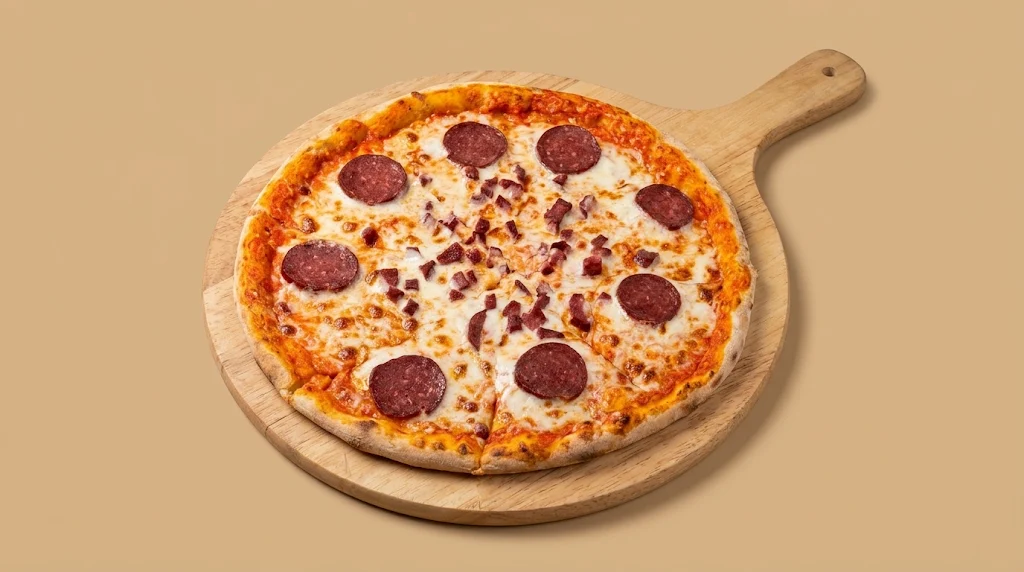
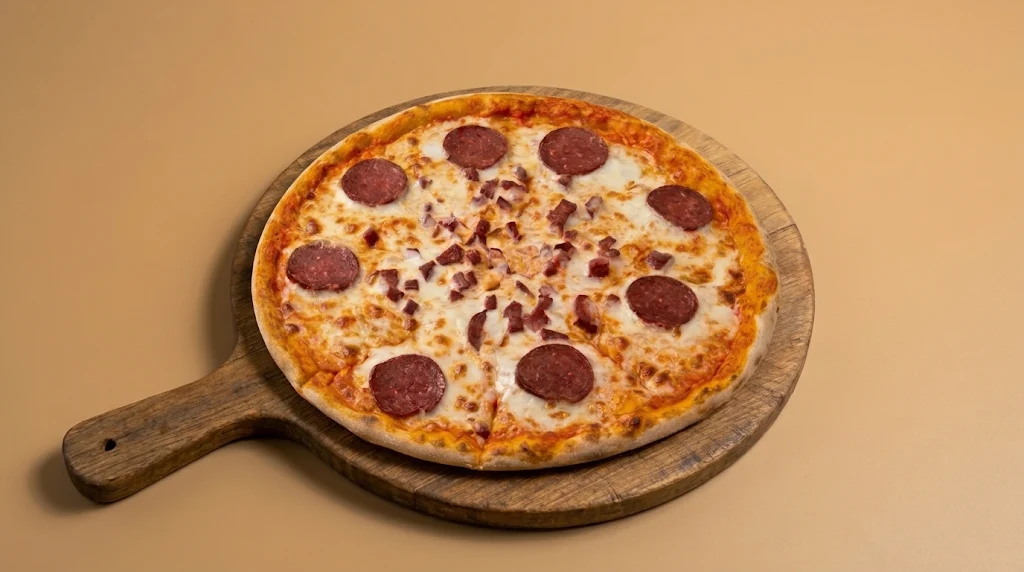
Update dish photos and nugget sauce selection

diff --git a/assets/cart.js b/assets/cart.js
@@ -3,7 +3,24 @@
  const core=window.MenuCartCore;
  const catalog=JSON.parse(document.getElementById('menu-catalog').textContent);
  const config=window.MenuOrderingConfig||{};
- const storageKey='sweet-sushi-cart-v1';
+ const storageKey=config.cartStorageKey||'sweet-sushi-cart-v1';
+ const products=new Map(catalog.map(product=>[product.id,product]));
+ const sauceInput=document.querySelector('[data-nugget-sauce]');
+ const nuggetId=catalog.find(product=>product.name==='Наггетсы')?.id;
+ const sauceNames=new Set(['Сырный','Томатный','Мира соус','Чесночный']);
+ try{const saved=localStorage.getItem(storageKey+'-nugget-sauce');if(sauceInput&&sauceNames.has(saved))sauceInput.value=saved;}catch{}
+ let sauceEnabled=Boolean(sauceInput?.value);
+ try{if(localStorage.getItem(storageKey+'-sauce-enabled')==='yes')sauceEnabled=true;}catch{}
+ const sauceChoice=document.querySelector('#nugget-sauce-choice');
+ const sauceButtons=[...document.querySelectorAll('[data-sauce-enabled]')];
+ function updateSauceChoice(){
+  if(sauceChoice)sauceChoice.hidden=!sauceEnabled;
+  if(sauceInput)sauceInput.disabled=!sauceEnabled;
+  sauceButtons.forEach(button=>{const yes=button.dataset.sauceEnabled==='yes';button.setAttribute('aria-pressed',String(yes===sauceEnabled));if(yes)button.setAttribute('aria-expanded',String(sauceEnabled));});
+ }
+ const selectedSauce=()=>!sauceEnabled?'':sauceNames.has(sauceInput?.value)?sauceInput.value:'Выбрать при подтверждении заказа';
+ updateSauceChoice();
+ const addButtons=new Map([...document.querySelectorAll('[data-add-product]')].map(button=>[button.dataset.addProduct,button]));
  const dialog=document.getElementById('cart-dialog');
  const list=dialog.querySelector('.cart-lines');
  const empty=dialog.querySelector('.cart-empty');
@@ -12,6 +29,9 @@
  const copy=dialog.querySelector('[data-copy-order]');
  const preview=dialog.querySelector('.cart-message');
  const commentInput=dialog.querySelector('.cart-comment');
+ const placeSelect=dialog.querySelector('#delivery-place');
+ const deliveryPlace=dialog.querySelector('.cart-delivery-place');
+ const deliveryTotal=dialog.querySelector('[data-delivery-total]');
  const configNote=dialog.querySelector('[data-config-note]');
  const status=document.querySelector('.cart-status');
  let cart={},statusTimer,lastOpener,payment='cash',fulfillment='';
@@ -33,6 +53,7 @@
    const info=node('div','cart-line-info');info.append(node('h3','',p.name));
    if(p.description)info.append(node('p','',p.description));
    info.append(node('p','cart-unit-price',core.money(p.price)+' за шт.'));
+   if(p.id===nuggetId&&selectedSauce())info.append(node('p','cart-unit-price','Соус: '+selectedSauce()));
    const controls=node('div','cart-line-controls');
    const minus=action('Уменьшить: '+p.name,'−',()=>change(p.id,p.quantity-1));minus.dataset.cartFocus=p.id+'-minus';
    const qty=node('span','cart-quantity',String(p.quantity));qty.setAttribute('aria-label','Количество');
@@ -50,7 +71,14 @@
   document.querySelectorAll('[data-cart-total]').forEach(el=>el.textContent=total);
   dock.hidden=count===0;empty.hidden=count>0;copy.disabled=count===0;
   renderLines();
-  const text=core.message(cart,catalog,payment,commentInput.value,fulfillment),url=core.whatsappUrl(config.whatsappNumber,text);
+  const place=placeSelect?.value||'',subtotal=core.total(cart,catalog),fee=core.deliveryFee(subtotal,fulfillment,place);
+  if(deliveryPlace)deliveryPlace.hidden=fulfillment!=='delivery';
+  const withDelivery=fulfillment==='delivery'&&count>0;
+  if(deliveryTotal){deliveryTotal.hidden=!withDelivery;deliveryTotal.textContent=withDelivery?(fee?'Доставка: '+core.money(fee):'Доставка бесплатно'):'';deliveryTotal.classList.toggle('is-free',withDelivery&&fee===0);}
+  const totalLabel=dialog.querySelector('[data-checkout-label]');
+  if(totalLabel){totalLabel.textContent=withDelivery?'Итого с доставкой':'Итого по меню';dialog.querySelector('.cart-summary [data-cart-total]').textContent=core.money(subtotal+fee);}
+  const sauceNote=selectedSauce()&&cart[nuggetId]?'\n\nСоус к наггетсам: '+selectedSauce()+'.':'';
+  const text=core.message(cart,catalog,payment,commentInput.value,fulfillment,place)+sauceNote,url=core.whatsappUrl(config.whatsappNumber,text);
   preview.value=text;
   dialog.querySelectorAll('[name="order-payment"]').forEach(input=>{input.checked=input.value===payment;});
   dialog.querySelectorAll('[name="order-fulfillment"]').forEach(input=>{input.checked=input.value===fulfillment;});
@@ -65,33 +93,37 @@
   document.querySelectorAll('[data-add-product]').forEach(button=>{
    const qty=cart[button.dataset.addProduct]||0;
    button.disabled=qty>=core.MAX_QUANTITY;
-   button.querySelector('span').textContent=qty?String(qty):'+';
+   const badge=button.querySelector('span');
+   if(badge)badge.textContent=qty?String(qty):'+';
   });
   document.querySelectorAll('[data-remove-product]').forEach(button=>{
    const selected=Boolean(cart[button.dataset.removeProduct]),wrap=button.closest('.menu-remove-wrap');
-   button.disabled=!selected;wrap.inert=!selected;wrap.setAttribute('aria-hidden',String(!selected));
-   button.closest('.item-order').classList.toggle('has-product',selected);
+   button.disabled=!selected;
+   if(wrap){wrap.inert=!selected;wrap.setAttribute('aria-hidden',String(!selected));}
+   button.closest('.item-order')?.classList.toggle('has-product',selected);
   });
   document.querySelectorAll('[data-price-product]').forEach(button=>{button.disabled=(cart[button.dataset.priceProduct]||0)>=core.MAX_QUANTITY;});
  }
  document.querySelectorAll('[data-price-product]').forEach(button=>button.addEventListener('click',()=>{
-  document.querySelector('[data-add-product="'+button.dataset.priceProduct+'"]').click();
+  addButtons.get(button.dataset.priceProduct)?.click();
  }));
  document.querySelectorAll('[data-remove-product]').forEach(button=>button.addEventListener('click',()=>{
-  const id=button.dataset.removeProduct,p=catalog.find(p=>p.id===id);
+  const id=button.dataset.removeProduct,p=products.get(id);
+  if(!p)return;
   const quantity=Math.max(0,(cart[id]||0)-1);
   change(id,quantity);
-  if(!quantity)document.querySelector('[data-add-product="'+id+'"]').focus({preventScroll:true});
+  if(!quantity)addButtons.get(id)?.focus({preventScroll:true});
   announce(quantity?p.name+' — в корзине '+quantity+' шт.':p.name+' — убрали из корзины.');
  }));
  document.querySelectorAll('[data-add-product]').forEach(button=>button.addEventListener('click',()=>{
   const id=button.dataset.addProduct;
-  const p=catalog.find(p=>p.id===id);
+  const p=products.get(id);
+  if(!p)return;
   cart=core.setQuantity(cart,id,(cart[id]||0)+1,catalog);save();render();
   if(!matchMedia('(prefers-reduced-motion: reduce)').matches&&button.animate){
    // Keep background/opacity under CSS control, including hover transitions.
    button.animate([{transform:'scale(1)'},{transform:'scale(.96)'},{transform:'scale(1)'}],{duration:240,easing:'ease-out'});
-   button.querySelector('span').animate([{transform:'scale(1)'},{transform:'scale(1.35)'},{transform:'scale(1)'}],{duration:320,easing:'ease-out'});
+   button.querySelector('span')?.animate([{transform:'scale(1)'},{transform:'scale(1.35)'},{transform:'scale(1)'}],{duration:320,easing:'ease-out'});
   }
   announce(p.name+' — в корзине '+cart[id]+' шт.');
  }));
@@ -100,9 +132,17 @@
  dialog.addEventListener('click',event=>{if(event.target===dialog){const r=dialog.getBoundingClientRect();if(event.clientX<r.left||event.clientX>r.right||event.clientY<r.top||event.clientY>r.bottom)dialog.close();}});
  dialog.addEventListener('close',()=>{document.body.classList.remove('cart-is-open');const opener=lastOpener&&!lastOpener.hidden?lastOpener:document.querySelector('.cart-header-button');opener?.focus({preventScroll:true});});
  checkout.addEventListener('click',event=>{if(checkout.getAttribute('aria-disabled')==='true')event.preventDefault();});
- copy.addEventListener('click',async()=>{try{await navigator.clipboard.writeText(preview.value);announce('Текст заказа скопирован.');}catch{dialog.querySelector('details').open=true;preview.focus();preview.select();announce('Выделили текст заказа — скопируйте его вручную.');}});
+ copy.addEventListener('click',async()=>{try{await navigator.clipboard.writeText(preview.value);announce('Текст заказа скопирован.');}catch{dialog.querySelector('.cart-message-preview').open=true;preview.focus();preview.select();announce('Выделили текст заказа — скопируйте его вручную.');}});
  addEventListener('storage',event=>{if(event.key!==storageKey)return;try{cart=core.restore(JSON.parse(event.newValue||'{}'),catalog);render();}catch{/* Ignore malformed data from another tab. */}});
  dialog.querySelectorAll('[name="order-fulfillment"]').forEach(input=>input.addEventListener('change',()=>{if(!input.checked)return;fulfillment=input.value;try{localStorage.setItem(storageKey+'-fulfillment',fulfillment);}catch{}render();}));
+ placeSelect?.addEventListener('change',render);
+ sauceInput?.addEventListener('change',()=>{try{localStorage.setItem(storageKey+'-nugget-sauce',sauceInput.value);}catch{}render();});
+ sauceButtons.forEach(button=>button.addEventListener('click',()=>{
+  sauceEnabled=button.dataset.sauceEnabled==='yes';
+  updateSauceChoice();
+  try{localStorage.setItem(storageKey+'-sauce-enabled',sauceEnabled?'yes':'no');if(!sauceEnabled){localStorage.removeItem(storageKey+'-nugget-sauce');if(sauceInput)sauceInput.value='';}}catch{}
+  render();
+ }));
  commentInput.addEventListener('input',()=>{try{localStorage.setItem(storageKey+'-comment',commentInput.value);}catch{}render();});
  dialog.querySelectorAll('[name="order-payment"]').forEach(input=>input.addEventListener('change',()=>{if(!input.checked)return;payment=input.value;try{localStorage.setItem(storageKey+'-payment',payment);}catch{}render();}));
  render();
